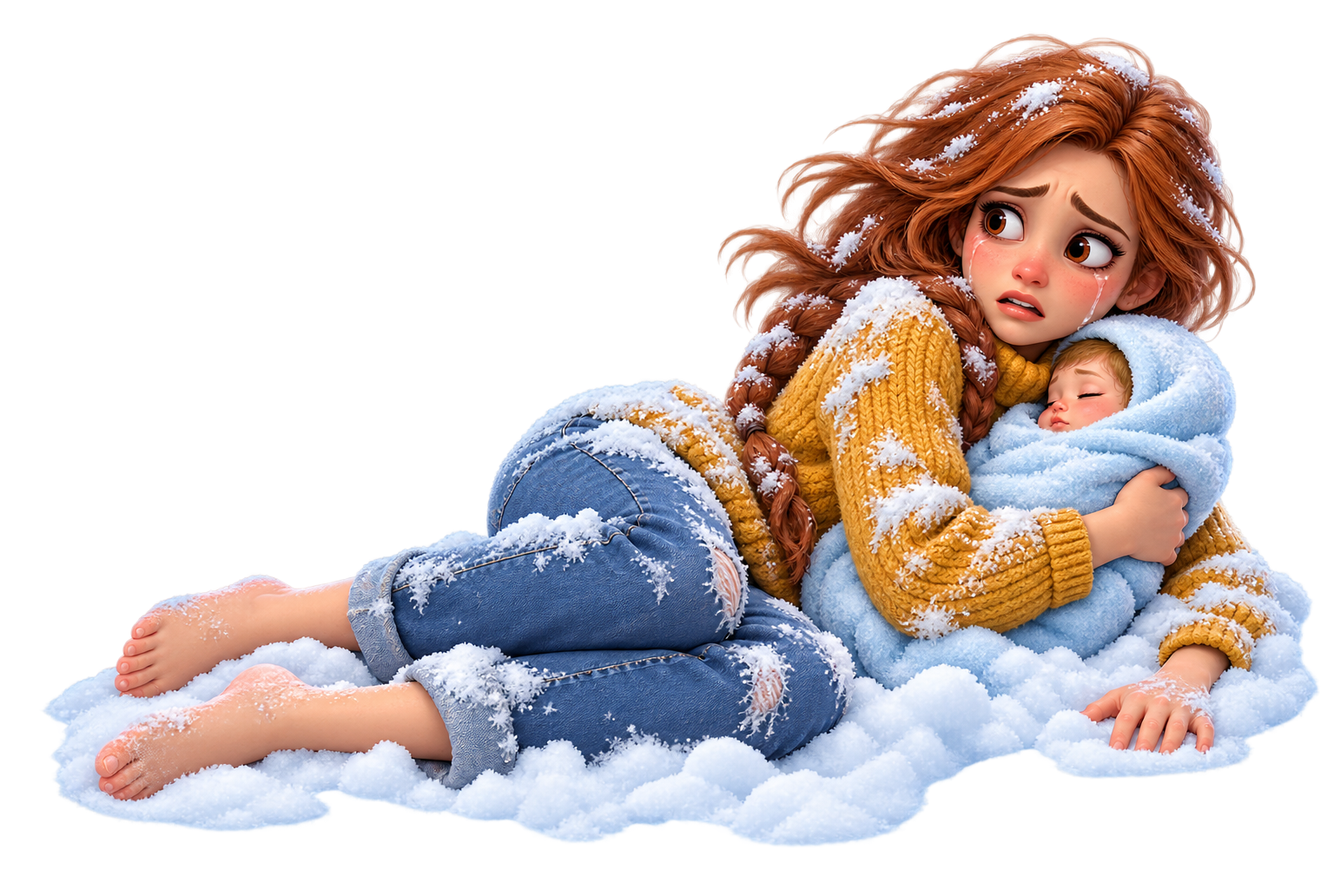
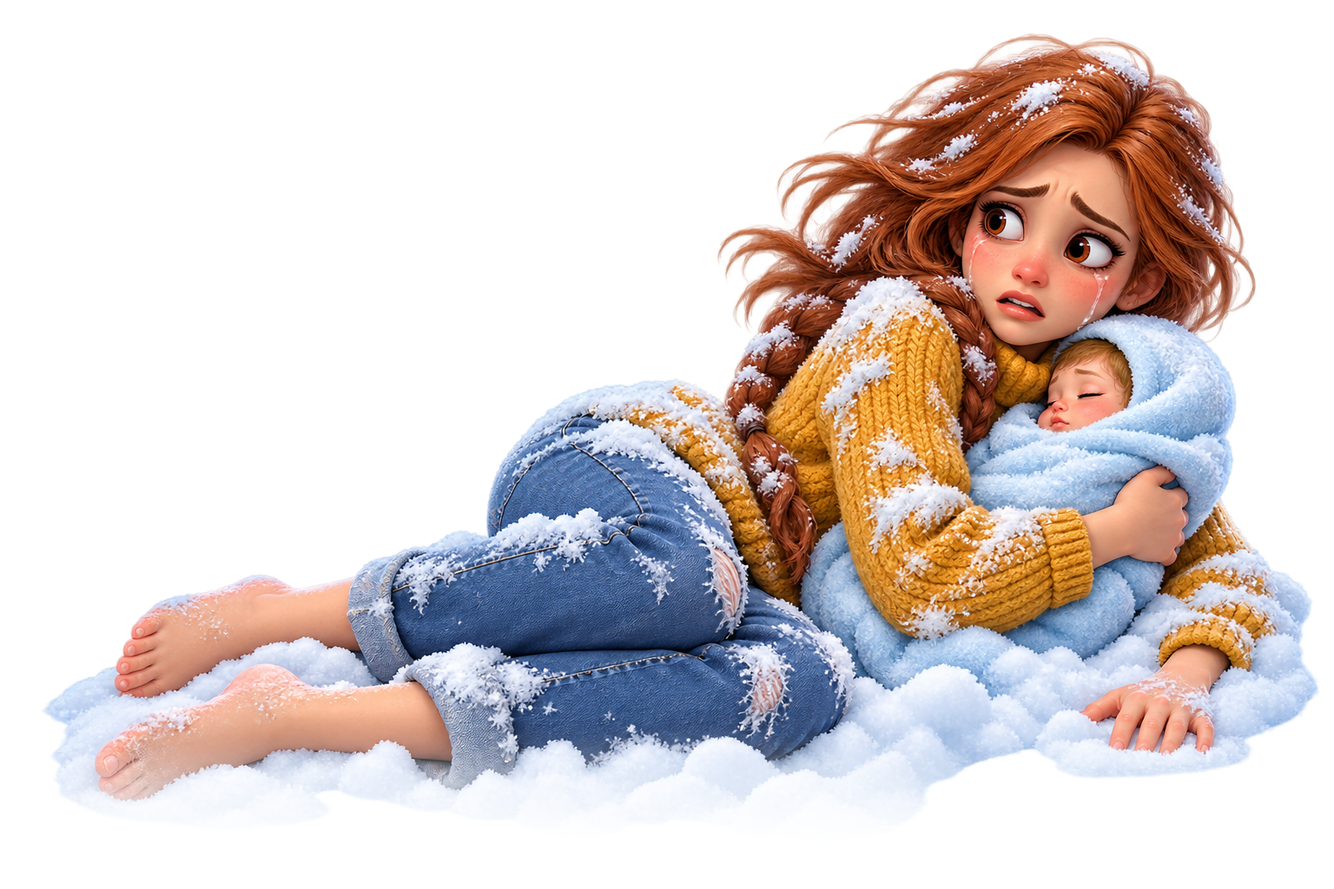
art gate A: critic fixes (hook, endcard, bubbles, juice, rims), new hand, soft hero_snow

Changed region(s): [[0.0312, 0.8125, 0.75, 0.9688], [0.8125, 0.8438, 0.8438, 0.875]]

diff --git a/live/scene.js b/live/scene.js
@@ -12,24 +12,28 @@
   const TCOL = [[0.35, 0.85, 0.35], [1, 0.8, 0.2], [0.95, 0.3, 0.35]], GCOL = { comb: [0.5, 0.65, 1], window: [0.55, 0.85, 1], dress: [0.7, 0.95, 0.3] };
   const GOALP = [UI.goal.x + 84, UI.goal.y + UI.goal.h / 2];                   // where goal tiles land (the panel's icon)
   const HERO = [W * 0.5, H * 0.80];                                            // shelter hero: centre x, bottom y [ART]
-  let OX = 0, OY = 0;                                                          // trauma shake of the world this frame
+  let OX = 0, OY = 0, ZF = 1;                                                          // trauma shake of the world this frame
   S.hit = [];
 
   // sprite helpers (view px)
+  const zr = (x, y, w, h) => [W / 2 + (x - W / 2) * ZF, H * 0.55 + (y - H * 0.55) * ZF, w * ZF, h * ZF];      // reveal push-in around the room's centre
   const cov = (n) => { const tx = G.tex(n), k = Math.max(W / tx.w, H / tx.h) * 1.05; return { k, x0: (W - tx.w * k) / 2, y0: (H - tx.h * k) / 2, tx }; };   // cover-fit of a background
   const imgPt = (n, fx, fy) => { const c = cov(n); return [c.x0 + fx * c.tx.w * c.k, c.y0 + fy * c.tx.h * c.k]; };                                      // image fraction → view px
-  const cover = (n) => { if (!has(n)) return; const tx = G.tex(n), k = Math.max(W / tx.w, H / tx.h) * 1.05, w = tx.w * k, h = tx.h * k; L.sprite(n, (W - w) / 2 + OX, (H - h) / 2 + OY, { w, h }); };
+  const cover = (n) => { if (!has(n)) return; const tx = G.tex(n), k = Math.max(W / tx.w, H / tx.h) * 1.05, w = tx.w * k, h = tx.h * k; { const [x1, y1, w1, h1] = zr((W - w) / 2 + OX, (H - h) / 2 + OY, w, h); L.sprite(n, x1, y1, { w: w1, h: h1 }); } };
   const spr = (n, cx, cy, w, h, o = {}) => { if (!has(n)) return; const s = o.s === undefined ? 1 : o.s, sx = (o.sx || 1) * s, sy = (o.sy || 1) * s; if (s <= 0.01) return;
     const tw = G.tex(n).w, th = G.tex(n).h; if (w && h) { const f = Math.min(w / tw, h / th); w = tw * f; h = th * f; }      // both given = fit inside the box, aspect kept
     if (!w) w = L.hsz(n, h); if (!h) h = w * th / tw; L.sprite(n, cx - w * sx / 2, cy - h * sy / 2, { w: w * sx, h: h * sy, u: { alpha: o.a === undefined ? 1 : o.a } }); };
-  const hero = (n, cx, bottom, a = 1) => { if (!has(n) || a <= 0.003) return; const h = Z[n][1] || L.sz(n, Z[n][0] / G.tex(n).w)[1], w = Z[n][0] || L.hsz(n, h); L.sprite(n, cx - w / 2 + OX, bottom - h + OY, { w, h, u: { alpha: a } }); };
+  const hero = (n, cx, bottom, a = 1) => { if (!has(n) || a <= 0.003) return; const h = Z[n][1] || L.sz(n, Z[n][0] / G.tex(n).w)[1], w = Z[n][0] || L.hsz(n, h); const [x1, y1, w1, h1] = zr(cx - w / 2 + OX, bottom - h + OY, w, h); L.sprite(n, x1, y1, { w: w1, h: h1, u: { alpha: a } }); };
   const panel = (slot, x, y, w, h, c0, c1, a = 0.85) => { L.rrect(x, y, w, h, Math.min(h / 2, 40), c0, c1, a); L.uiBox(slot, x, y, w, h, 4); };
   const bubble = (x, y, r, a, hot = 1, tail = null) => { L.glow(x, y, r * 1.55, [1, 0.95, 0.5], 0.35 * a * hot, 2.2);
-    if (tail) { const an = Math.atan2(tail[1] - y, tail[0] - x), tx = x + Math.cos(an) * r * 0.92, ty = y + Math.sin(an) * r * 0.92; L.solid(tx - r * 0.2, ty - r * 0.2, r * 0.4, r * 0.4, [1, 1, 1], an + Math.PI / 4, r * 0.2, r * 0.2, a); }
+    L.shadow(x + 5, y + 12, r * 1.08, r * 1.0, 0.32 * a);
+    if (tail) { const an = Math.atan2(tail[1] - y, tail[0] - x), ts = r * 0.52, tx = x + Math.cos(an) * r * 0.98, ty = y + Math.sin(an) * r * 0.98;      // tail points at Mia
+      L.solid(tx - ts * 0.6, ty - ts * 0.6, ts * 1.2, ts * 1.2, [1, 0.8, 0.25], an + Math.PI / 4, ts * 0.6, ts * 0.6, a); L.solid(tx - ts / 2, ty - ts / 2, ts, ts, [1, 1, 1], an + Math.PI / 4, ts / 2, ts / 2, a); }
+    L.rrect(x - r - 5, y - r - 5, 2 * r + 10, 2 * r + 10, r + 5, [1, 0.86, 0.32], [0.9, 0.6, 0.12], a);                     // golden rim
     L.rrect(x - r, y - r, 2 * r, 2 * r, r, [1, 1, 1], [0.86, 0.9, 1], a); };
-  const lock = (x, y, a) => { L.rrect(x - 26, y - 6, 52, 42, 10, [0.98, 0.8, 0.25], [0.85, 0.6, 0.12], a); L.ring(x, y - 10, 17, 20, [0.85, 0.87, 0.95], a, 0.22); L.solid(x - 4, y + 8, 8, 14, [0.3, 0.2, 0.05], 0, 0, 0, a); };
+  const lock = (x, y, a) => { L.rrect(x - 15, y - 34, 30, 44, 14, [0.82, 0.84, 0.92], [0.66, 0.68, 0.8], a); L.rrect(x - 26, y - 6, 52, 42, 10, [0.98, 0.8, 0.25], [0.85, 0.6, 0.12], a); L.solid(x - 4, y + 8, 8, 14, [0.3, 0.2, 0.05], 0, 0, 0, a); };
   const handAt = (hx, hy, down) => { if (down) L.glow(hx, hy, 70, [1, 1, 1], 0.35, 2.5);
-    if (has('hand')) { const hh = Z.hand[1] * (down ? 0.92 : 1), hw = L.hsz('hand', hh); L.sprite('hand', hx - hw * 0.086, hy - hh * 0.01, { w: hw, h: hh }); }
+    if (has('hand')) { const hh = Z.hand[1] * (down ? 0.92 : 1), hw = L.hsz('hand', hh); L.sprite('hand', hx - hw * 0.218, hy - hh * 0.004, { w: hw, h: hh }); }
     else { L.rrect(hx - 34, hy - 34, 68, 68, 34, [1, 1, 1], [0.86, 0.86, 0.9], 0.9); L.ring(hx, hy, 52, 52, [1, 1, 1], down ? 0.8 : 0.3, 0.12); } };
   const caption = (slot, txt, y, a = 1) => { const tw = L.labelW(slot, txt, { size: 58, font: FONT });
     panel(slot, W / 2 - tw / 2 - 44, y - 56, tw + 88, 112, [0.06, 0.08, 0.16], [0.03, 0.04, 0.10], 0.78 * a);
@@ -40,6 +44,8 @@
   S.render = (t) => {
     const ST = S.state || SIM.at(t), GT = ST.t, rnd = L.rnd, bd = ST.bd, ph = ST.phase, ended = ST.end >= 0;
     const shelter = ST.cut >= 0 && GT >= ST.cut, reveal = ph === 'reveal', rt = reveal ? GT - ST.phaseT : 0, warm = reveal ? SS(0, 1.5, rt) : 0, choice = ST.choice || 'comb';
+    const bq = bd && ph === 'board' ? ease(clamp((GT - ST.phaseT) / K.BOARD_IN, 0, 1)) : bd && reveal ? 1 - ease(clamp((rt - 0.05) / 0.35, 0, 1)) : 0, heroA = ended ? 0 : 1 - bq;   // board covers the room → the hero steps back
+    ZF = reveal ? 1 + 0.07 * SS(0, 1.4, rt) : 1;
     // ---- trauma shake from recent events ----
     let tr = 0; for (const e of ST.ev) { const a = GT - e.t; if (a < 0) continue;
       if (e.k === 'slam' && a < 0.5) tr = Math.max(tr, 1.1 * (1 - a / 0.5)); if (e.k === 'blast' && a < 0.4) tr = Math.max(tr, 0.8 * (1 - a / 0.4)); if (e.k === 'win' && a < 0.3) tr = Math.max(tr, 0.5 * (1 - a / 0.3)); }
@@ -49,22 +55,23 @@
     L.beginBG([0.1, 0.12, 0.2, 1]);
     if (!shelter) {                                                              // shot A: the door slams, she is left in the snow
       cover('bg_outside');
-      const open = 1 - ease(clamp((GT - 0.45) / 0.25, 0, 1)), sx = 0.15 + 0.85 * (1 - open), [dl, dt] = imgPt('bg_outside', Z.doorBox[0], Z.doorBox[1]), [dr, db] = imgPt('bg_outside', Z.doorBox[2], Z.doorBox[3]), dw = (dr - dl) * 1.04, dh = db - dt;
+      const open = 1 - ease(clamp((GT - 0.45) / 0.25, 0, 1)), sx = 0.15 + 0.85 * (1 - open), [dl, dt] = imgPt('bg_outside', Z.doorBox[0], Z.doorBox[1]), [dr, db] = imgPt('bg_outside', Z.doorBox[2], Z.doorBox[3]), dw = (dr - dl) * 1.0, dh = db - dt;
       L.glow((dl + dr) / 2 + OX, (dt + db) / 2 + OY, 700 * (0.35 + 0.65 * open), [1, 0.8, 0.4], 0.5 * open, 2.2);              // warm light that dies with the door
       L.glow((dl + dr) / 2 + OX, db + 60 + OY, 480 * open, [1, 0.75, 0.35], 0.4 * open, 2.4);
-      if (has('door')) L.sprite('door', 0, 0, { m: M.of(M.t(dl - dw * 0.02 + OX, db + OY), M.s(sx, 1)), w: dw, h: dh, pivot: [0, dh] });
-      const u = ease(clamp((GT - 0.5) / 0.7, 0, 1)), hb = db + (H * 0.80 - db) * u - 70 * Math.sin(Math.PI * u);                // she is thrown out and slides onto the snow
-      hero('hero_snow', (dl + dr) / 2 + (W * 0.40 - (dl + dr) / 2) * u, hb, SS(0.4, 0.8, GT));
+      if (has('door')) L.sprite('door', 0, 0, { m: M.of(M.t(dl + OX, db + OY), M.s(sx, 1)), w: dw, h: dh, pivot: [0, dh] });
+      const u = ease(clamp(GT / 0.9, 0, 1)), hb = db + (H * 0.80 - db) * u - 70 * Math.sin(Math.PI * u);                // she is thrown out and slides onto the snow
+      const hxs = (dl + dr) / 2 + (W * 0.40 - (dl + dr) / 2) * u; L.shadow(hxs + OX, hb - 4 + OY, 400, 44, 0.42 * SS(0, 0.15, GT)); hero('hero_snow', hxs, hb, SS(0, 0.15, GT));
       for (let i = 0; i < 16; i++) { const x = ((rnd(i, 9) * 1.5 * W - GT * 1100 * (0.6 + rnd(i, 8))) % (1.5 * W) + 1.5 * W) % (1.5 * W) - 0.2 * W;
         L.solid(x, rnd(i, 7) * H, 140 * (0.5 + rnd(i, 6)), 3, [1, 1, 1], -0.12, 0, 0, 0.3); }       // blizzard streaks
     } else {                                                                     // shot B: the shelter
       cover('bg_room');
       const sad = reveal && choice !== 'window' ? 1 - SS(0.5, 1.1, rt) : 1, cx = HERO[0] + (reveal ? 0 : 3 * Math.sin(GT * 38)), bot = HERO[1];
-      hero('hero_sad', cx, bot, sad);
-      if (reveal && choice === 'comb') hero('hero_happy', cx, bot, SS(0.5, 1.1, rt));
-      if (reveal && choice === 'dress') hero('hero_dress', cx, bot, SS(0.5, 1.1, rt));
+      L.shadow(cx + OX, bot - 10 + OY, 340, 48, 0.55 * heroA);                   // contact shadow: the chair stands on the floor
+      hero('hero_sad', cx, bot, sad * heroA);
+      if (reveal && choice === 'comb') hero('hero_happy', cx, bot, SS(0.5, 1.1, rt) * heroA);
+      if (reveal && choice === 'dress') hero('hero_dress', cx, bot, SS(0.5, 1.1, rt) * heroA);
       if (reveal && choice === 'window' && has('window_patch')) { const [px0, py0] = imgPt('bg_room', Z.patchRect[0], Z.patchRect[1]), [px1, py1] = imgPt('bg_room', Z.patchRect[2], Z.patchRect[3]);
-        L.sprite('window_patch', px0 + OX, py0 + OY, { w: px1 - px0, h: py1 - py0, u: { alpha: SS(0.5, 1.1, rt) } }); }
+        const [x1, y1, w1, h1] = zr(px0 + OX, py0 + OY, px1 - px0, py1 - py0); L.sprite('window_patch', x1, y1, { w: w1, h: h1, u: { alpha: SS(0.5, 1.1, rt) } }); }
       if (!reveal) for (let j = 0; j < 3; j++) { const q = (GT * 0.9 + j / 3) % 1; L.puff(cx - 20 + 25 * q, bot - 655 - 90 * q, 14 + 28 * q, [1, 1, 1], 0.4 * (1 - q), j + 60); }   // breath puffs [ART: at her mouth]
       if (!reveal || rt < 1) for (let j = 0; j < 14; j++) { const WIN = imgPt('bg_room', Z.winAt[0], Z.winAt[1]), y = WIN[1] + 60 + (GT * 95 * (0.5 + rnd(j, 5)) + rnd(j, 6) * 600) % 640; L.puff(WIN[0] + (rnd(j, 4) - 0.5) * 280 + 30 * Math.sin(GT + j), y, 7 + 5 * rnd(j, 3), [1, 1, 1], 0.5 * (1 - warm), j + 80); }   // snow through the window
     }
@@ -73,7 +80,8 @@
     L.solid(0, 0, W, H, [0.05, 0.1, 0.3], 0, 0, 0, 0.16 * (1 - warm));          // cold grade → warm grade on the reveal
     L.solid(0, 0, W, H, [1.0, 0.65, 0.25], 0, 0, 0, 0.16 * warm);
     if (ST.cut >= 0 && GT - ST.cut < 0.3) L.solid(0, 0, W, H, [1, 1, 1], 0, 0, 0, 0.95 * (1 - (GT - ST.cut) / 0.3));   // whip flash on the cut
-    if (reveal) L.glow(W / 2, H * 0.55, 760, [1, 0.75, 0.4], 0.32 * warm, 2.2);
+    if (reveal) { L.glow(W / 2, H * 0.55, 760, [1, 0.75, 0.4], 0.32 * warm, 2.2); const wp = imgPt('bg_room', Z.winAt[0], Z.winAt[1]); L.glow(wp[0], wp[1], 640, [1, 0.8, 0.45], 0.4 * warm, 2.2);
+      if (rt > 0.35 && rt < 0.65) L.solid(0, 0, W, H, [1, 0.97, 0.85], 0, 0, 0, 0.55 * (1 - Math.abs(rt - 0.5) / 0.15)); }       // bloom flash as the swirl closes, warm light pours in
     L.beginComp();
 
     // ===== choice: three bubbles (they pop in, the chosen one flies to the goal panel) =====
@@ -82,16 +90,17 @@
       UI.ORDER.forEach((n, i) => { const b = UI.bubbles[n]; let k = popk((GT - ST.phaseT - 0.12 * i) / 0.3), x = b.x, y = b.y + 9 * Math.sin(GT * 3 + i * 2), hot = 0.8 + 0.2 * Math.sin(GT * 4 + i);
         if (ph === 'board') { const q = clamp((GT - ST.phaseT) / 0.5, 0, 1); k = 1;
           if (n === choice) { x += (GOALP[0] - x) * ease(q); y += (GOALP[1] - y) * ease(q); k = (1 + 0.25 * Math.sin(Math.PI * Math.min(1, q * 2))) * (1 - 0.7 * q); hot = 1.6; } else k = 1 - q; }
-        if (k <= 0.01) return; bubble(x, y, b.r * k, 1, hot, ph === 'choice' ? [W * 0.5, H * 0.58] : null); spr(GOALTEX[n], x, y, Z.icon[0] * k, Z.icon[1] * k); });
+        if (k <= 0.01) return; bubble(x, y, b.r * k, 1, hot, ph === 'choice' ? [HERO[0], HERO[1] - 700] : null); spr(GOALTEX[n], x, y, Z.icon[0] * k, Z.icon[1] * k); });
       if (ph === 'board') { const q = (GT - ST.phaseT) / 0.55; if (q < 1) sparks(UI.bubbles[choice].x, UI.bubbles[choice].y, q, 12, 190, [1, 0.95, 0.6], 30, 3); }
       if (ph === 'choice') { const b = UI.bubbles.comb, q = (GT * 1.3) % 1, down = q > 0.15 && q < 0.7;
         if (GT - ST.phaseT > 0.5) handAt(b.x + 30, b.y + 50 + (down ? 8 : 0), down); }
     }
 
     // ===== board =====
-    const bq = bd && ph === 'board' ? ease(clamp((GT - ST.phaseT) / K.BOARD_IN, 0, 1)) : bd && reveal ? 1 - ease(clamp((rt - 0.05) / 0.35, 0, 1)) : 0;
     if (bd && bq > 0.001 && !ended) { const oy = (1 - bq) * (H - UI.board.y + 40) + OY, ox = OX;
       L.solid(0, 0, W, H, [0.02, 0.04, 0.1], 0, 0, 0, 0.45 * bq);
+      L.shadow(UI.board.x + UI.board.w / 2 + ox, UI.board.y + UI.board.h / 2 + 18 + oy, UI.board.w * 0.56, UI.board.h * 0.54, 0.4 * bq);
+      L.rrect(UI.board.x - 9 + ox, UI.board.y - 9 + oy, UI.board.w + 18, UI.board.h + 18, 42, [0.62, 0.84, 1], [0.32, 0.58, 0.92], 0.98);       // light-blue rim
       L.rrect(UI.board.x + ox, UI.board.y + oy, UI.board.w, UI.board.h, 34, [0.16, 0.28, 0.55], [0.08, 0.16, 0.38], 0.97);
       L.rrect(UI.grid.x - 6 + ox, UI.grid.y + oy - 6, UI.grid.w + 12, UI.grid.h + 12, 26, [0.12, 0.22, 0.46], [0.10, 0.2, 0.42], 1);
       for (let i = 0; i < K.COLS * K.ROWS; i++) { const [cx, cy] = SIM.cellXY(i); if ((i + Math.floor(i / K.COLS)) % 2) L.rrect(cx - 80 + ox, cy - 80 + oy, 160, 160, 22, [0.2, 0.34, 0.62], [0.2, 0.34, 0.62], 0.35); }
@@ -103,10 +112,11 @@
       if (ST.sel >= 0) { const [cx, cy] = SIM.cellXY(ST.sel); L.ring(cx + ox, cy + oy, 92, 92, [1, 1, 1], 0.7, 0.08); }
       // juice per match: tile-coloured sparkles per cleared tile, line-blast beam
       for (const e of ST.ev) { const a = GT - e.t; if (a < 0 || a > 0.5) continue; const q = a / 0.5;
-        if (e.k === 'match') e.idx.forEach((ci, j) => { const [cx, cy] = SIM.cellXY(ci); sparks(cx + ox, cy + oy, q, 4, 120, e.kk[j] === 3 ? [...GCOL[choice]] : TCOL[e.kk[j]], 20, ci * 7 + e.n); });
-        if (e.k === 'blast' && a < 0.4) { const r = 1 - a / 0.4, horiz = e.row !== undefined;
-          if (horiz) { L.solid(UI.grid.x + ox, e.y - 36 * r + oy, UI.grid.w, 72 * r, [1, 1, 0.85], 0, 0, 0, 0.85 * r); L.glow(W / 2 + ox, e.y + oy, 560, [1, 0.95, 0.6], 0.5 * r, 2.2); }
-          else { L.solid(e.x - 36 * r + ox, UI.grid.y + oy, 72 * r, UI.grid.h, [1, 1, 0.85], 0, 0, 0, 0.85 * r); L.glow(e.x + ox, BY0() + oy, 560, [1, 0.95, 0.6], 0.5 * r, 2.2); } } }
+        if (e.k === 'match') e.idx.forEach((ci, j) => { const [cx, cy] = SIM.cellXY(ci); sparks(cx + ox, cy + oy, q, 8, 130, e.kk[j] === 3 ? [...GCOL[choice]] : TCOL[e.kk[j]], 20, ci * 7 + e.n); });
+        if (e.k === 'blast' && a < 0.4) { const r = 1 - a / 0.4, horiz = e.row !== undefined;                       // layered glow beam: wide soft, mid, white core
+          for (const [th, al] of [[150, 0.25], [78, 0.5], [26, 1]]) { const hh = th * r;
+            if (horiz) L.solid(UI.grid.x + ox - 20, e.y - hh / 2 + oy, UI.grid.w + 40, hh, [1, 0.95, 0.7], 0, 0, 0, al * r); else L.solid(e.x - hh / 2 + ox, UI.grid.y + oy - 20, hh, UI.grid.h + 40, [1, 0.95, 0.7], 0, 0, 0, al * r); }
+          L.glow((horiz ? W / 2 : e.x) + ox, (horiz ? e.y : BY0()) + oy, 700, [1, 0.95, 0.6], 0.55 * r, 2.2); } }
       // goal panel: icon + counter; the counter counts tiles that have landed, with a pop on each landing
       let inflight = 0, bump = 0; for (const e of ST.ev) { const a = GT - e.t - 0.025 * (e.n % 4); if (e.k !== 'goal' || a < 0) continue;
         if (a < 0.6) { inflight++; const u = ease(a / 0.6);
@@ -114,6 +124,7 @@
           if (u > 0.15) L.star(e.x + (GOALP[0] - e.x) * (u - 0.12), e.y + (GOALP[1] - e.y) * (u - 0.12) - 110 * Math.sin(Math.PI * (u - 0.12)), 22, [1, 0.95, 0.6], 0.8 * (1 - u)); }
         else if (a < 0.75) bump = Math.max(bump, 1 - (a - 0.6) / 0.15); }
       const shown = Math.min(K.GOAL, Math.max(0, ST.got - inflight)), txt = shown + '/' + K.GOAL, gp = UI.goal, gs = 1 + 0.1 * bump;
+      L.rrect(gp.x + (1 - gs) * gp.w / 2 - 7, gp.y + oy - (gs - 1) * gp.h / 2 - 7, gp.w * gs + 14, gp.h * gs + 14, 47, [0.62, 0.38, 0.16], [0.42, 0.24, 0.08], 0.98);       // brown plank rim
       panel('goal', gp.x + (1 - gs) * gp.w / 2, gp.y + oy - (gs - 1) * gp.h / 2, gp.w * gs, gp.h * gs, [0.96, 0.86, 0.66], [0.80, 0.60, 0.36], 0.97);
       spr(GOALTEX[choice], GOALP[0], GOALP[1] + oy, Z.tile[0] * 0.9 * gs, Z.tile[1] * 0.9 * gs);
       L.label('goaln', txt, gp.x + 170, gp.y + gp.h / 2 + oy, { size: Math.round(84 * gs), font: FONT, col: shown >= K.GOAL ? '#3fd02a' : '#ff7a1c', out: '#5a2300' });
@@ -132,7 +143,8 @@
       if (rt < 1.6) { const q = rt / 1.6, cx = HERO[0], cy = H * 0.55, r = 70 + 400 * (1 - ease(q)), am = Math.sin(Math.PI * Math.min(1, q * 1.1));
         for (let j = 0; j < 18; j++) { const an = j / 18 * 6.283 + rt * 5; L.star(cx + Math.cos(an) * r, cy + Math.sin(an) * r * 0.8, 30, [1, 0.92, 0.55], am); }
         L.ring(cx, cy, r, r * 0.8, [1, 0.85, 0.5], 0.5 * am, 0.06); }
-      if (rt > 1.4) UI.ORDER.filter((n) => n !== choice).forEach((n, i) => { const b = UI.bubbles[n], k = popk((rt - 1.4 - 0.12 * i) / 0.3) * 0.62, y = b.y + 7 * Math.sin(GT * 3 + i), a = 0.85;
+      for (let j = 0; j < 9; j++) { const q = (rt * 0.45 + j / 9) % 1; L.star(HERO[0] + (rnd(j, 2) - 0.5) * 320 + 24 * Math.sin(rt * 3 + j), HERO[1] - 430 - 460 * q, 26, [1, 0.62, 0.72], Math.sin(Math.PI * q) * warm); }   // warmth rising off the baby
+      if (rt > 1.4) UI.ORDER.filter((n) => n !== choice).forEach((n, i) => { const b = UI.bubbles[n], k = popk((rt - 1.4 - 0.12 * i) / 0.3) * 0.85, y = b.y + 7 * Math.sin(GT * 3 + i), a = 0.95;
         if (k <= 0.01) return; bubble(b.x, y, b.r * k, a, 0.25); spr(GOALTEX[n], b.x, y, Z.icon[0] * k, Z.icon[1] * k, { a: 0.4 }); lock(b.x + b.r * k * 0.55, y + b.r * k * 0.5, 1); });
     }
 
@@ -141,11 +153,11 @@
       if (ph === 'intro') caption('cap1', shelter ? '...SHE FOUND A SHELTER' : 'KICKED OUT IN THE COLD!', 250, SS(0, 0.25, GT));
       if (ph === 'choice') caption('cap2', 'HELP MIA! PICK ONE', 250, SS(0, 0.25, GT - ST.phaseT));
       if (ph === 'board' && ST.got === 0 && bd && bd.busy === 'idle') caption('cap3', 'SWIPE TO MATCH 3', 250);
-      if (reveal && rt > 1.0 && rt < 1.9) caption('capw', 'MIA FEELS WARM AGAIN!', 250, SS(1.0, 1.25, rt));
-      if (reveal && rt >= 1.9) caption('capn', 'SHE NEEDS MORE...', 250, SS(1.9, 2.15, rt));
+      if (reveal && rt > 1.0 && rt < 1.9) caption('capw', 'MIA FEELS WARM AGAIN!', 190, SS(1.0, 1.25, rt));
+      if (reveal && rt >= 1.9) caption('capn', 'SHE NEEDS MORE...', 190, SS(1.9, 2.15, rt));
     }
     for (const e of ST.ev) { const a = GT - e.t; if (a < 0 || a > 1.1 || ended) continue; const q = a / 1.1;
-      const pop = (slot, s, col, out) => L.label(slot, s, W / 2, e.y - 120 * ease(q), { size: Math.round(86 * (a < 0.12 ? 0.6 + 3.3 * a : 1)), font: FONT, col, out, al: 0.5, a: 1 - SS(0.7, 1, q) });
+      const pop = (slot, s, col, out) => L.label(slot, s, W / 2, UI.goal.y - 60 - 50 * ease(q), { size: Math.round(86 * (a < 0.12 ? 0.6 + 3.3 * a : 1)), font: FONT, col, out, al: 0.5, a: 1 - SS(0.7, 1, q) });
       if (e.k === 'cascade') pop('casc', e.n > 2 ? 'AMAZING!' : 'GREAT!', '#fff27a', '#5a3a00'); if (e.k === 'blast') pop('blast', 'SWEET!', '#ffffff', '#1a4a8a'); }
     L.finish(t, { bloom: [0.12, 0.10], vignette: 0.9, warm: 0.5 + 0.3 * warm, roll: 0.5 });
 
@@ -159,21 +171,27 @@
 
     // ===================== endcard =====================
     if (ended) { const oy = (H - 1920) / 2, a = GT - ST.end, k = SS(0, 0.45, a), win = ST.endWhy === 'win', pop = (d) => popk((a - d) / 0.35);
-      L.solid(0, 0, W, H, [0.03, 0.05, 0.12], 0, 0, 0, 0.72 * k);
-      const s1 = pop(0.2); if (s1 > 0.01) { L.label('head', win ? "SHE'S SMILING AGAIN!" : 'MIA STILL NEEDS YOU!', W / 2, 230 + oy, { size: Math.round(66 * s1), font: FONT, col: '#ffffff', out: '#12305a', al: 0.5 });
-        L.label('logo', 'SNOWBOUND HOME', W / 2, 350 + oy, { size: Math.round(80 * s1), font: FONT, col: '#ffe066', out: '#3a2300', al: 0.5 });
-        L.label('tag', 'Rebuild her home!', W / 2, 460 + oy, { size: 54, font: FONT, col: '#ffffff', out: '#12305a', al: 0.5, a: k }); }
-      const sm = pop(0.35); if (sm > 0.01) { const n = win ? (choice === 'dress' ? 'hero_dress' : choice === 'window' ? 'hero_sad' : 'hero_happy') : 'hero_sad';
-        L.glow(W / 2, 820 + oy, 330, [1, 0.85, 0.4], 0.25, 2.2); spr(n, W / 2, 800 + oy, 0, 560 * sm * (1 + 0.012 * Math.sin(t * 2.2)));
-        if (win) for (let j = 0; j < 8; j++) { const q = (t * 0.6 + j / 8) % 1; L.star(W / 2 + (rnd(j, 1) - 0.5) * 520, 1000 + oy - 480 * q, 22, [1, 0.92, 0.55], Math.sin(Math.PI * q) * k); } }
-      const s2 = pop(0.45); if (s2 > 0.01) L.label('stat', win ? '6/6 ✓' : ST.got + '/' + K.GOAL, W / 2, 1130 + oy, { size: Math.round(60 * s2), font: FONT, col: '#bff58a', out: '#173307', al: 0.5 });
-      const s3 = pop(0.7), pul = 1 + 0.045 * Math.sin(t * 6), bw = 640 * s3 * pul, bh = 170 * s3 * pul, bx = W / 2 - bw / 2, by = 1330 + oy - bh / 2;
-      if (s3 > 0.01) { L.glow(W / 2, 1330 + oy, 420, [1, 0.8, 0.3], 0.3, 2.2);
+      if (win) L.solid(0, 0, W, H, [0.14, 0.08, 0.04], 0, 0, 0, 0.42 * k); else L.solid(0, 0, W, H, [0.03, 0.05, 0.12], 0, 0, 0, 0.7 * k);       // warm payoff stays warm; the world's hero is hidden (no ghost)
+      const si = pop(0.1); if (si > 0.01) { const ix = W / 2, iy = 175 + oy, r = 82 * si;                                                         // code-drawn app icon
+        L.shadow(ix, iy + 14, r * 1.1, r, 0.4); L.rrect(ix - r, iy - r, 2 * r, 2 * r, r * 0.36, [0.55, 0.78, 1], [0.2, 0.38, 0.85]);
+        L.solid(ix - r * 0.42, iy - r * 0.05, r * 0.84, r * 0.62, [1, 0.97, 0.9], 0, 0, 0); L.solid(ix - r * 0.43, iy - r * 0.5, r * 0.62, r * 0.62, [0.95, 0.5, 0.25], Math.PI / 4, r * 0.31, r * 0.31);
+        L.solid(ix - r * 0.1, iy + r * 0.18, r * 0.2, r * 0.38, [0.6, 0.38, 0.2], 0, 0, 0); L.star(ix + r * 0.55, iy - r * 0.55, r * 0.3, [1, 1, 1], 0.9); }
+      const s1 = pop(0.2); if (s1 > 0.01) { L.label('head', win ? "SHE'S SMILING AGAIN!" : 'MIA STILL NEEDS YOU!', W / 2, 330 + oy, { size: Math.round(72 * s1), font: FONT, col: '#ffffff', out: '#12305a', al: 0.5 });
+        L.label('logo', 'SNOWBOUND HOME', W / 2, 430 + oy, { size: Math.round(80 * s1), font: FONT, col: '#ffe066', out: '#3a2300', al: 0.5 });
+        L.label('tag', 'Rebuild her home!', W / 2, 515 + oy, { size: 54, font: FONT, col: '#ffffff', out: '#12305a', al: 0.5, a: k }); }
+      const sm = pop(0.35); if (sm > 0.01) { const n = win ? (choice === 'dress' ? 'hero_dress' : 'hero_happy') : 'hero_sad';
+        L.glow(W / 2, 860 + oy, 360, [1, 0.85, 0.4], win ? 0.3 : 0.12, 2.2); L.shadow(W / 2, 1115 + oy, 300 * sm, 40 * sm, 0.5); spr(n, W / 2, 850 + oy, 0, 530 * sm * (1 + 0.012 * Math.sin(t * 2.2)));
+        if (win) for (let j = 0; j < 8; j++) { const q = (t * 0.6 + j / 8) % 1; L.star(W / 2 + (rnd(j, 1) - 0.5) * 520, 1050 + oy - 480 * q, 22, [1, 0.92, 0.55], Math.sin(Math.PI * q) * k); } }
+      const s2 = pop(0.45); if (s2 > 0.01) { const st = win ? '6/6 ✓' : ST.got + '/' + K.GOAL, tw = L.labelW('stat', st, { size: 54, font: FONT }) + 70;
+        L.rrect(W / 2 - tw / 2, 1170 + oy - 46, tw, 92, 46, [0.12, 0.2, 0.1], [0.06, 0.12, 0.05], 0.8 * s2); L.uiBox('statp', W / 2 - tw / 2, 1170 + oy - 46, tw, 92, 4);
+        L.label('stat', st, W / 2, 1170 + oy, { size: Math.round(54 * s2), font: FONT, col: '#bff58a', out: '#173307', al: 0.5 }); }
+      const s3 = pop(0.7), pul = 1 + 0.045 * Math.sin(t * 6), bw = 640 * s3 * pul, bh = 170 * s3 * pul, bx = W / 2 - bw / 2, by = 1390 + oy - bh / 2;
+      if (s3 > 0.01) { L.glow(W / 2, 1390 + oy, 420, [1, 0.8, 0.3], 0.3, 2.2);
         L.rrect(bx, by + 12, bw, bh, bh / 2, [0.15, 0.45, 0.10], [0.10, 0.35, 0.06]); L.rrect(bx, by, bw, bh, bh / 2, [0.55, 0.95, 0.40], [0.25, 0.72, 0.15]); L.uiBox('endcta', bx, by, bw, bh, 2);
         L.label('endcta', 'PLAY FREE', W / 2, by + bh / 2, { size: Math.round(86 * s3), font: FONT, col: '#ffffff', out: '#145a10', al: 0.5 });
         S.hit.push({ id: 'cta', x: bx, y: by, w: bw, h: bh }); }
-      if (a > 1.2) { L.label('replay', '↻ REPLAY', W / 2, 1560 + oy, { size: 46, font: FONT, col: '#ffffff', out: '#12305a', al: 0.5, a: SS(1.2, 1.6, a) });
-        S.hit.unshift({ id: 'replay', x: W / 2 - 170, y: 1520 + oy, w: 340, h: 80 }); }
+      if (a > 1.2) { L.label('replay', '↻ REPLAY', W / 2, 1620 + oy, { size: 46, font: FONT, col: '#ffffff', out: '#12305a', al: 0.5, a: SS(1.2, 1.6, a) });
+        S.hit.unshift({ id: 'replay', x: W / 2 - 170, y: 1580 + oy, w: 340, h: 80 }); }
       if (a > 0.6) S.hit.push({ id: 'cta', x: 0, y: 0, w: W, h: H }); }
   };
   const BY0 = () => UI.grid.y + UI.grid.h / 2;

diff --git a/live/assets.js b/live/assets.js
@@ -1,1 +1,1 @@
-window.ASSETS = {"bg_outside": {"w": 1024, "h": 1536, "crop": [0, 0, 1024, 1536], "scale": 1.0}, "bg_room": {"w": 1024, "h": 1536, "crop": [0, 0, 1024, 1536], "scale": 1.0}, "door": {"w": 737, "h": 1503, "crop": [141, 6, 878, 1509], "scale": 1.0}, "hand": {"w": 564, "h": 1023, "crop": [241, 1, 805, 1024], "scale": 1.0}, "hero_dress": {"w": 856, "h": 1017, "crop": [84, 2, 940, 1019], "scale": 1.0}, "hero_happy": {"w": 855, "h": 1008, "crop": [84, 9, 939, 1017], "scale": 1.0}, "hero_sad": {"w": 855, "h": 1015, "crop": [85, 3, 940, 1018], "scale": 1.0}, "hero_snow": {"w": 1479, "h": 945, "crop": [44, 35, 1523, 980], "scale": 1.0}, "tile_coin": {"w": 364, "h": 379, "crop": [2, 2, 366, 381], "scale": 1.0}, "tile_comb": {"w": 304, "h": 405, "crop": [2, 2, 306, 407], "scale": 1.0}, "tile_dress": {"w": 415, "h": 392, "crop": [2, 2, 417, 394], "scale": 1.0}, "tile_leaf": {"w": 368, "h": 391, "crop": [2, 2, 370, 393], "scale": 1.0}, "tile_window": {"w": 340, "h": 392, "crop": [2, 2, 342, 394], "scale": 1.0}, "tile_yarn": {"w": 435, "h": 371, "crop": [2, 2, 437, 373], "scale": 1.0}, "window_patch": {"w": 1024, "h": 1024, "crop": [0, 0, 1024, 1024], "scale": 1.0}};
+window.ASSETS = {"bg_outside": {"w": 1024, "h": 1536, "crop": [0, 0, 1024, 1536], "scale": 1.0}, "bg_room": {"w": 1024, "h": 1536, "crop": [0, 0, 1024, 1536], "scale": 1.0}, "door": {"w": 737, "h": 1503, "crop": [141, 6, 878, 1509], "scale": 1.0}, "hand": {"w": 673, "h": 1510, "crop": [190, 2, 863, 1512], "scale": 1.0}, "hero_dress": {"w": 856, "h": 1017, "crop": [84, 2, 940, 1019], "scale": 1.0}, "hero_happy": {"w": 855, "h": 1008, "crop": [84, 9, 939, 1017], "scale": 1.0}, "hero_sad": {"w": 855, "h": 1015, "crop": [85, 3, 940, 1018], "scale": 1.0}, "hero_snow": {"w": 1479, "h": 915, "crop": [44, 35, 1523, 950], "scale": 1.0}, "tile_coin": {"w": 364, "h": 379, "crop": [2, 2, 366, 381], "scale": 1.0}, "tile_comb": {"w": 304, "h": 405, "crop": [2, 2, 306, 407], "scale": 1.0}, "tile_dress": {"w": 415, "h": 392, "crop": [2, 2, 417, 394], "scale": 1.0}, "tile_leaf": {"w": 368, "h": 391, "crop": [2, 2, 370, 393], "scale": 1.0}, "tile_window": {"w": 340, "h": 392, "crop": [2, 2, 342, 394], "scale": 1.0}, "tile_yarn": {"w": 435, "h": 371, "crop": [2, 2, 437, 373], "scale": 1.0}, "window_patch": {"w": 1024, "h": 1024, "crop": [0, 0, 1024, 1024], "scale": 1.0}};

diff --git a/live/sizes.js b/live/sizes.js
@@ -4,7 +4,7 @@
 window.SIZES = {
   tile: [150, 150],         // a board tile fits inside this box (aspect kept) within its 170 px cell
   hero_sad: [0, 880], hero_happy: [0, 880], hero_dress: [0, 880], hero_snow: [900, 0],
-  icon: [170, 170], hand: [0, 190],
+  icon: [170, 170], hand: [0, 270],
   doorBox: [0.585, 0.185, 0.825, 0.505],       // the lit arch opening in bg_outside: [left, top, right, bottom] — the door leaf covers it
   winAt: [0.35, 0.20],                         // centre of the broken window in bg_room
   patchRect: [0.0684, 0.0163, 0.6152, 0.3809], // where window_patch is pasted over bg_room (it is the edited crop of exactly this area)

diff --git a/study/critique/gateA.md b/study/critique/gateA.md
@@ -1,0 +1,21 @@
+# Gate A critique — Snowbound Home (measured on frames/g, phone 780x1688, verify.sh run: OK, 0.91 MB/network, 61 fps)
+Art is NOT the problem (painted hero/bg/tiles match the ref's level). What reads "prototype" is code-drawn polish and a few layering bugs.
+
+## 1. Scores (1-10)
+hook 6 | clarity 8 | feel/juice 5 | visuals vs ref 6 | HUD/CTA/endcard 4 | tech readiness 6 | overall 5.5
+Timings OK (demo: slam .70, cut 1.21, bubbles 2.21, choose 3.52, first goal 5.06, win 6.64, reveal 6.99, endcard 9.80; passive: auto-pick 6.21, end 12.0).
+Hook weak: t0.35 frame = glowing yellow slab + edge-on door sliver, NO character (hero_snow only slides in at ~0.4-0.8 s); ref frame 1 already has the heroine.
+
+## 2. Top 5 fixes (by impact)
+1. ENDCARD GHOST + dead colours — scene.js endcard block (~l.160-166). WHY: world (full hero_happy + chair, y 860-1530) is still drawn under the 0.72 navy overlay, so t11 shows TWO chairs (mascot 560px on top of a 24% ghost) with "6/6" floating on the ghost; mean lum 126 (t9) -> 64 (t11), warm R-B 35 -> 3.6: the earned warm payoff is killed exactly when CTA appears. CHANGE: when `ended` skip hero()/bubbles/locks (or hero alpha 0), overlay 0.35 alpha of dark WARM brown [0.12,0.07,0.04] + blur-ish vignette, keep warm grade; mascot = hero_happy drawn with the same warm tint; add code-drawn app icon (rounded square, snowflake+house) above the title + 5 stars; headline 66->76px; move "6/6" into a pill.
+2. Hard-cut layering bugs — scene.js shelter block (l.61-66) + board phase. WHY: smoke 2_board shows chair legs sticking out under the board frame (y1260-1345 @1688) = reads as a glitch; chair hovers (feet lum 95 vs floor 68-78, no contact shadow; hero_snow also floats on the stoop, hard blob edge). CHANGE: fade hero_sad alpha to 0 over BOARD_IN while phase==board (back at reveal), add elliptical contact shadow (L.glow dark, 520x70 at feet y=bot-12, alpha .45) under chair and under hero_snow; feather hero_snow bottom edge with a white glow puff.
+3. Bubbles look pasted — scene.js bubble() l.27-29. WHY: tail is a 0.4r rotated square aimed at screen centre (W*.5,H*.58), not at Mia: at 1080px frames the tails show as stray white corners (comb: lower-left wedge, dress: clipped square) ; flat white disk, no rim/shadow (ref: golden rim + soft shadow + clear tail to heroine). CHANGE: aim tails at her head (W*.5, bot-700); draw tail as a 3-vertex triangle (or 2 rotated squares overlap) in the same fill; add 6px golden ring (L.ring [1,.85,.3]) + drop shadow glow (black .25, offset +10y); pulse ring on the comb. Hand: see art list.
+4. Juice is flat — board block l.103-112 + reveal. WHY: blast beam = grey-white solid bar (170,180,175 at t5.25, hard edges, alpha .85 over navy) with "SWEET!" on it; no hit-stop, tile pop is scale only; reveal is a 0.6 s alpha cross-fade + thin sparkle ring (r~330) over an unchanged room (only grade changes) = weak "wow". CHANGE: beam = additive glow gradient: 3 stacked solids (h 140/72/24, alpha .25/.5/1, warm white) + L.glow 700 + 60 ms hit-stop (freeze GT 0.06) + shake 14px; callout sits ABOVE the board centre not on the beam; clear sparkles x2 count with tile colour; reveal: camera push-in 1.0->1.07 over 1.2 s, white bloom flash 0.15 s at rt=.5, god-ray wedges from the window (additive, warm), stop snow, hearts/sparkles rising from baby, shake-off of shiver; keep "SHE NEEDS MORE" caption alpha 1 (now ~0.8, text max 206/255, over window frame -> unreadable) and enlarge locked bubbles (r .62 -> .85, lock ring is a stray 'O').
+5. Text/tech polish — scene.js FONT l.8, build.json. WHY: FONT = Arial Black chain: on Android it falls to Roboto, captions (dark ribbon + Arial-ish) differ per device; store links are placeholders (com.example.snowboundhome, id0000000000); board/goal panel have no rim (ref: light-blue frame rim, brown plank rim), hand is emoji-style. CHANGE: embed one OFL display font (Lilita One / Baloo, ~20 KB base64 woff2) and load before first frame; real/clearly-marked store URLs in build.json; board frame: add 6px light-blue rim [0.5,0.75,1] + inner shadow + drop shadow, goal panel +6px brown rim; hook: draw hero_snow from t=0 (slides in during the first 0.3 s, door already mid-swing) so frame 0 has the heroine; captions on the first shot appear at t=0.1.
+
+## 3. Assets to regenerate
+- hand.png: flat emoji-style hand + yellow cuff clashes with the painted look (ref uses a natural hand with soft shadow); regen as painted/soft-shaded index-finger pointer, no cuff, ~190px, light from upper-left.
+- hero_happy.png (and hero_dress): chair/pose repainted — alpha IoU vs hero_sad 0.971/0.978, chair-region mean RGB diff 21-26 (head 19-26) -> chair shimmers in the cross-fade, ghost visible in endcard. Fix by prep-composite (hero_sad body+chair, paste only new head/clothes region) or regen as a tighter edit with "chair, blanket, pose pixel-identical".
+- hero_snow.png: pasted snow cushion with hard cut edge; regen with soft snow fade to transparent at the base (or cut at the waist line and drift in code).
+- NEW bg_room_warm.png (edit of bg_room: same camera, window boarded + curtain, rug, lamp, no drifts): cross-fade for ALL three choices = the real transformation "wow"; today only the grade changes (the window choice alone gets window_patch).
+- Keep: bg_outside, door (leaf overlaps the stone jamb ~45 px left / 25 px right at t1.0, because dw=1.04x doorBox; reads as a door in front of the arch, acceptable; could shrink dw to 0.98), tiles (54 px on a 390 phone, silhouettes distinct), bg_room, hero_sad.

diff --git a/study/PLAN.md b/study/PLAN.md
@@ -136,13 +136,23 @@ Code-drawn: bubbles, glow, padlock, board frame, goal panel, ribbon captions, li
       giggle, end. Not listened to on a real device.
       [ART] tuning for phase 3 (constants at the top of scene.js / sizes.js): HERO centre/bottom, WIN (window position = SIZES.patchAt),
       breath puff position (bot - 640), door left x/bottom, hero_snow slide path, Z.* display sizes, bubble positions in SIM.UI.
-- [ ] 3. ART (Gate A): art/style_bible.txt (≤ 6 lines, measured from study/ref: palette hex, outline weight, shading
-      steps, light direction, exclusions "no text, no logos, no UI frames") → one prompt per asset in art/prompts/ →
-      art/jobs.json (bg_* with "size": "1024x1536") → batch 1: bg_room, hero_sad, tiles_sheet; check ONE contact sheet
-      on grey; approve hero_sad → batch 2 (edits): hero_happy, hero_dress, hero_snow, window_patch; batch 3: bg_outside,
-      door. Slice tiles, prep, measure window position → sizes.js. Then `verify.sh` + stills
-      (`node <R>/render.mjs stills 0.6,2.0,3.2,5.5,9,11.5,13.5 --out frames/g`) → critic Gate A in background
-      (`<S>/references/critic-brief.md`, model sonnet). Apply top fixes. Commit.
+- [x] 3. DONE 2026-10-09 (Sonnet 5.5). Art via Codex (ChatGPT plan, no Claude tokens), 3 batches: bg_room, bg_outside, door,
+      hero_sad, hand, tiles_a/b_sheet (sliced into 6 tiles) → hero_happy / hero_dress (edits of hero_sad), hero_snow (design ref),
+      window_patch (edit of art/ref/window_crop.png, feathered in PIL) → hand regenerated after the critic. verify OK, 0.91 MB per
+      network (textures 16 MB → 608 KB webp), 61 fps. Style bible = art/style_bible.txt; ref.png = 2_shelter (style ref).
+      Geometry now comes from the art: SIZES.doorBox (arch opening in bg_outside), winAt + patchRect (window in bg_room), all as
+      image fractions → scene `imgPt()` (cover-fit aware, works on every phone aspect). hero_snow sized by width (900).
+      Gate A critic (study/critique/gateA.md): overall 5.5; art "at the reference's level", prototype feel = code-drawn polish.
+      FIXED from it: hero visible from t=0 (hook), endcard ghost removed (world hero hidden, warm overlay, app icon, stat pill),
+      hero fades under the board + contact shadows (chair, hero_snow), bubble tails aim at Mia + golden rim + shadow, layered
+      beam + callout above the goal panel + 2× sparks, board light-blue rim + goal panel brown rim, reveal = push-in 1.07 + bloom
+      flash + window light + rising hearts, locked bubbles bigger, captions in reveal at y=190, door width 1.0×, hand regenerated
+      (painted, no cuff; tip offset 0.218 × width), hero_snow base feathered.
+      NOT done (candidates for phase 4, in this order): (a) bg_room_warm.png = edit of bg_room (window boarded, curtain, rug,
+      lamp, no drifts) cross-faded for ALL choices — the real "transformation" wow; (b) hero_happy/hero_dress repaint the chair
+      (alpha IoU 0.97) → shimmer during the 0.6 s cross-fade; fix by compositing only head/clothes onto hero_sad in prep, or regen
+      with "chair pixel-identical"; (c) embed an OFL display font (Lilita One) — needs a download, ask the user; (d) real store
+      URLs in tools/build.json (placeholders now); (e) 60 ms hit-stop on blast (needs a sim freeze).
 - [ ] 4. FEEL (Gate B): play it on the live page (serve.sh, `?ad=1`), tune K headless; check a manual player who makes
       a bad first move still wins by ~15 s; passive endcard ≤ 12 s; fps ≥ 60 at 390×844. `verify.sh all` green →
       critic Gate B → max 2 fix rounds. Commit.
